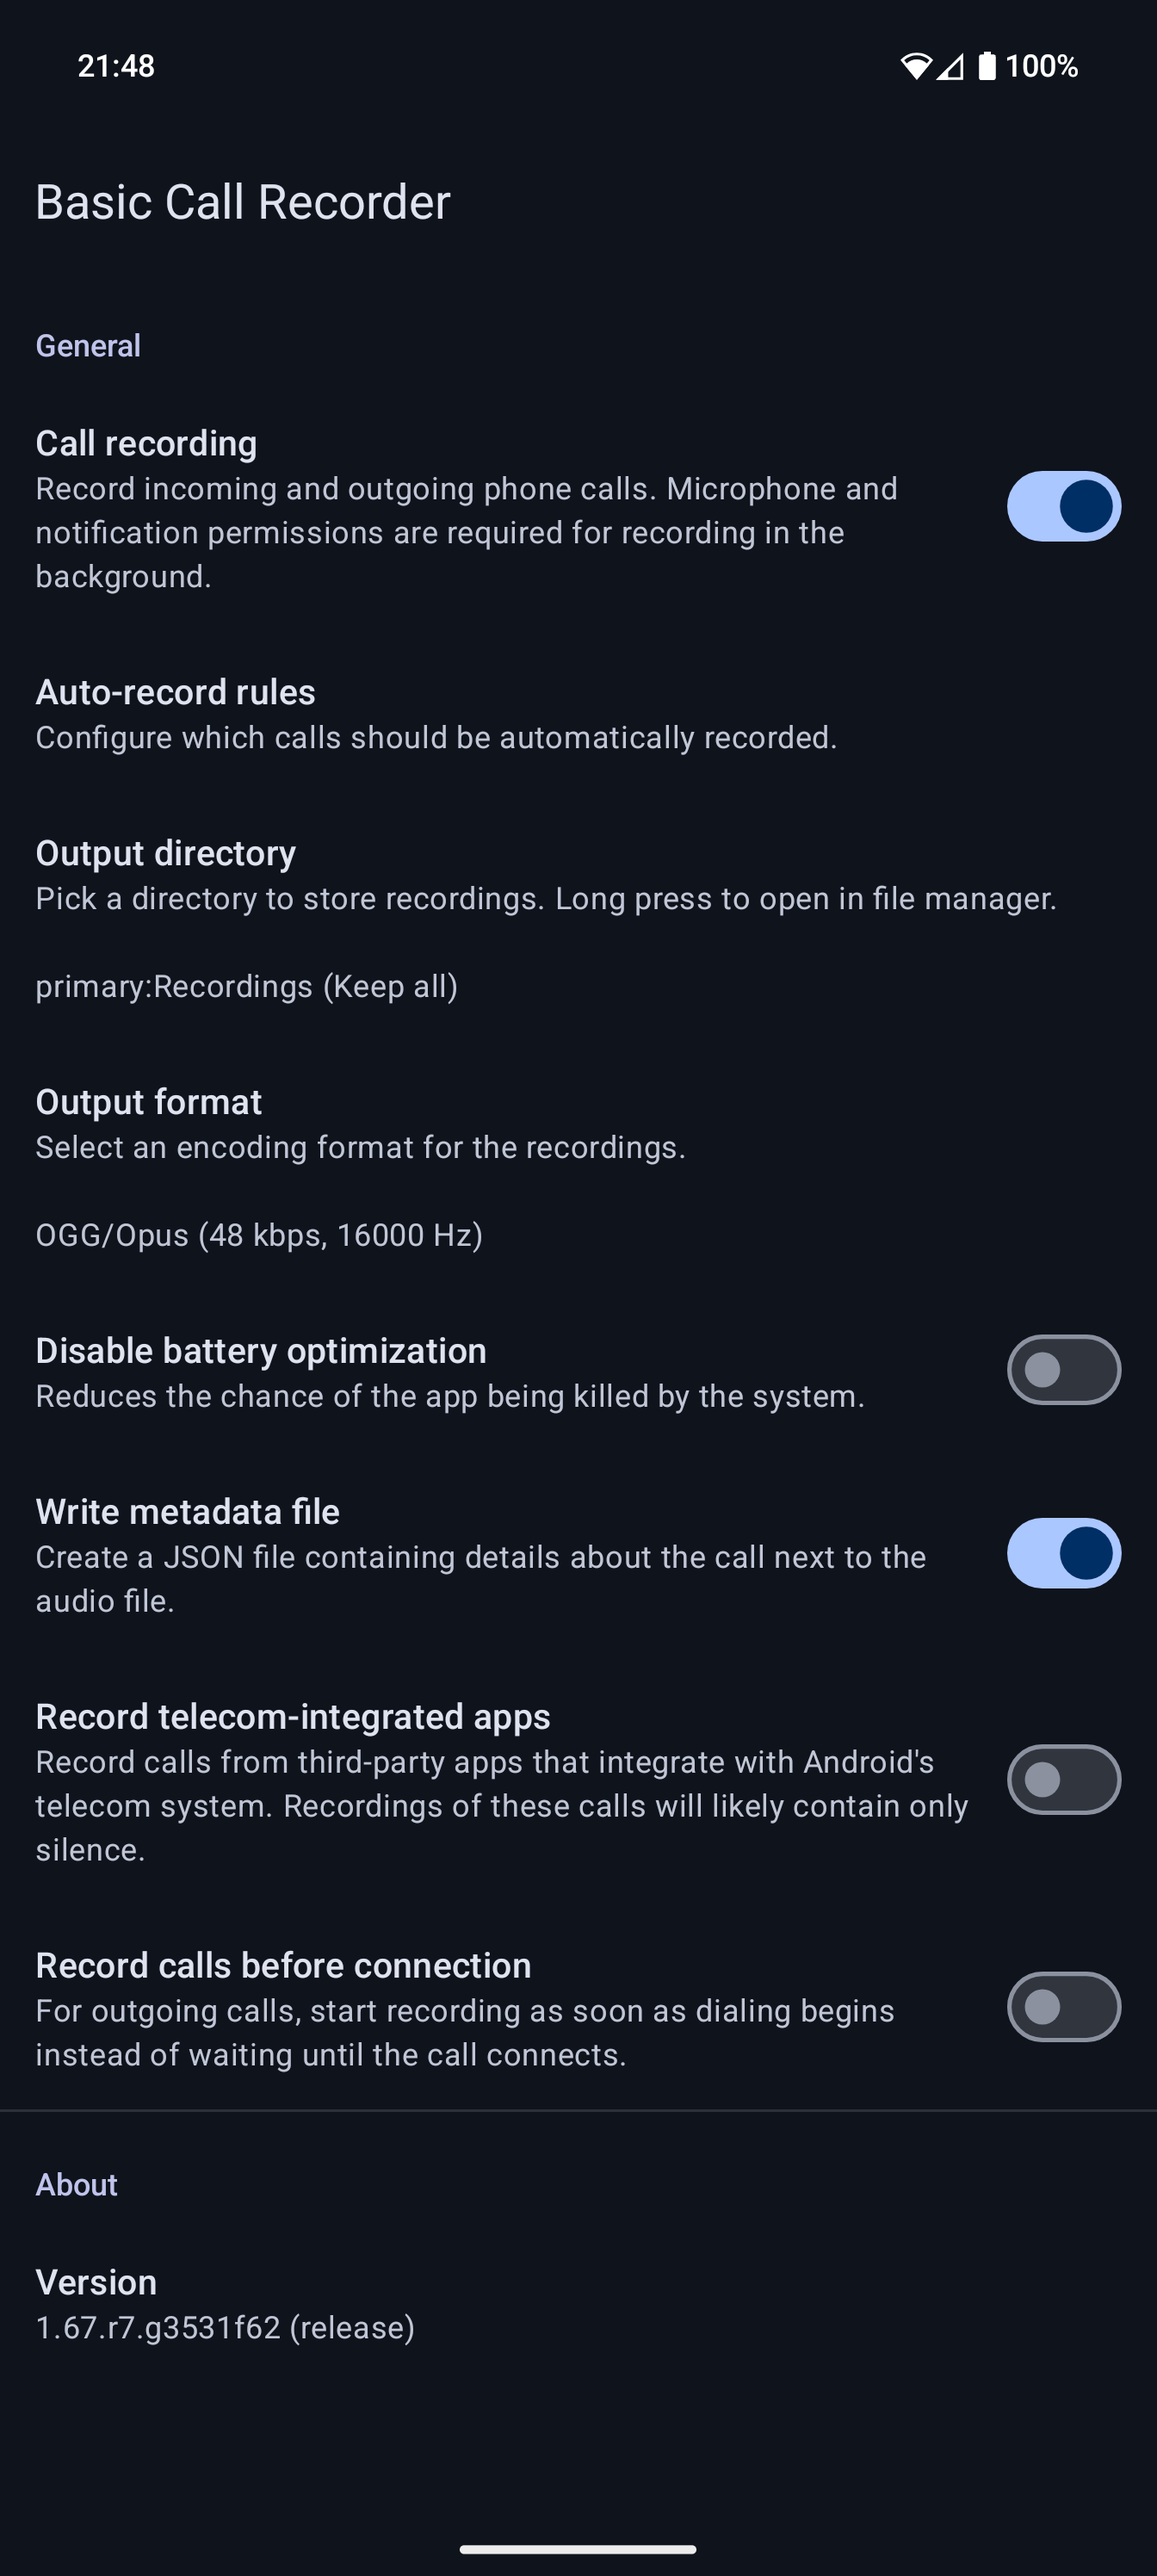
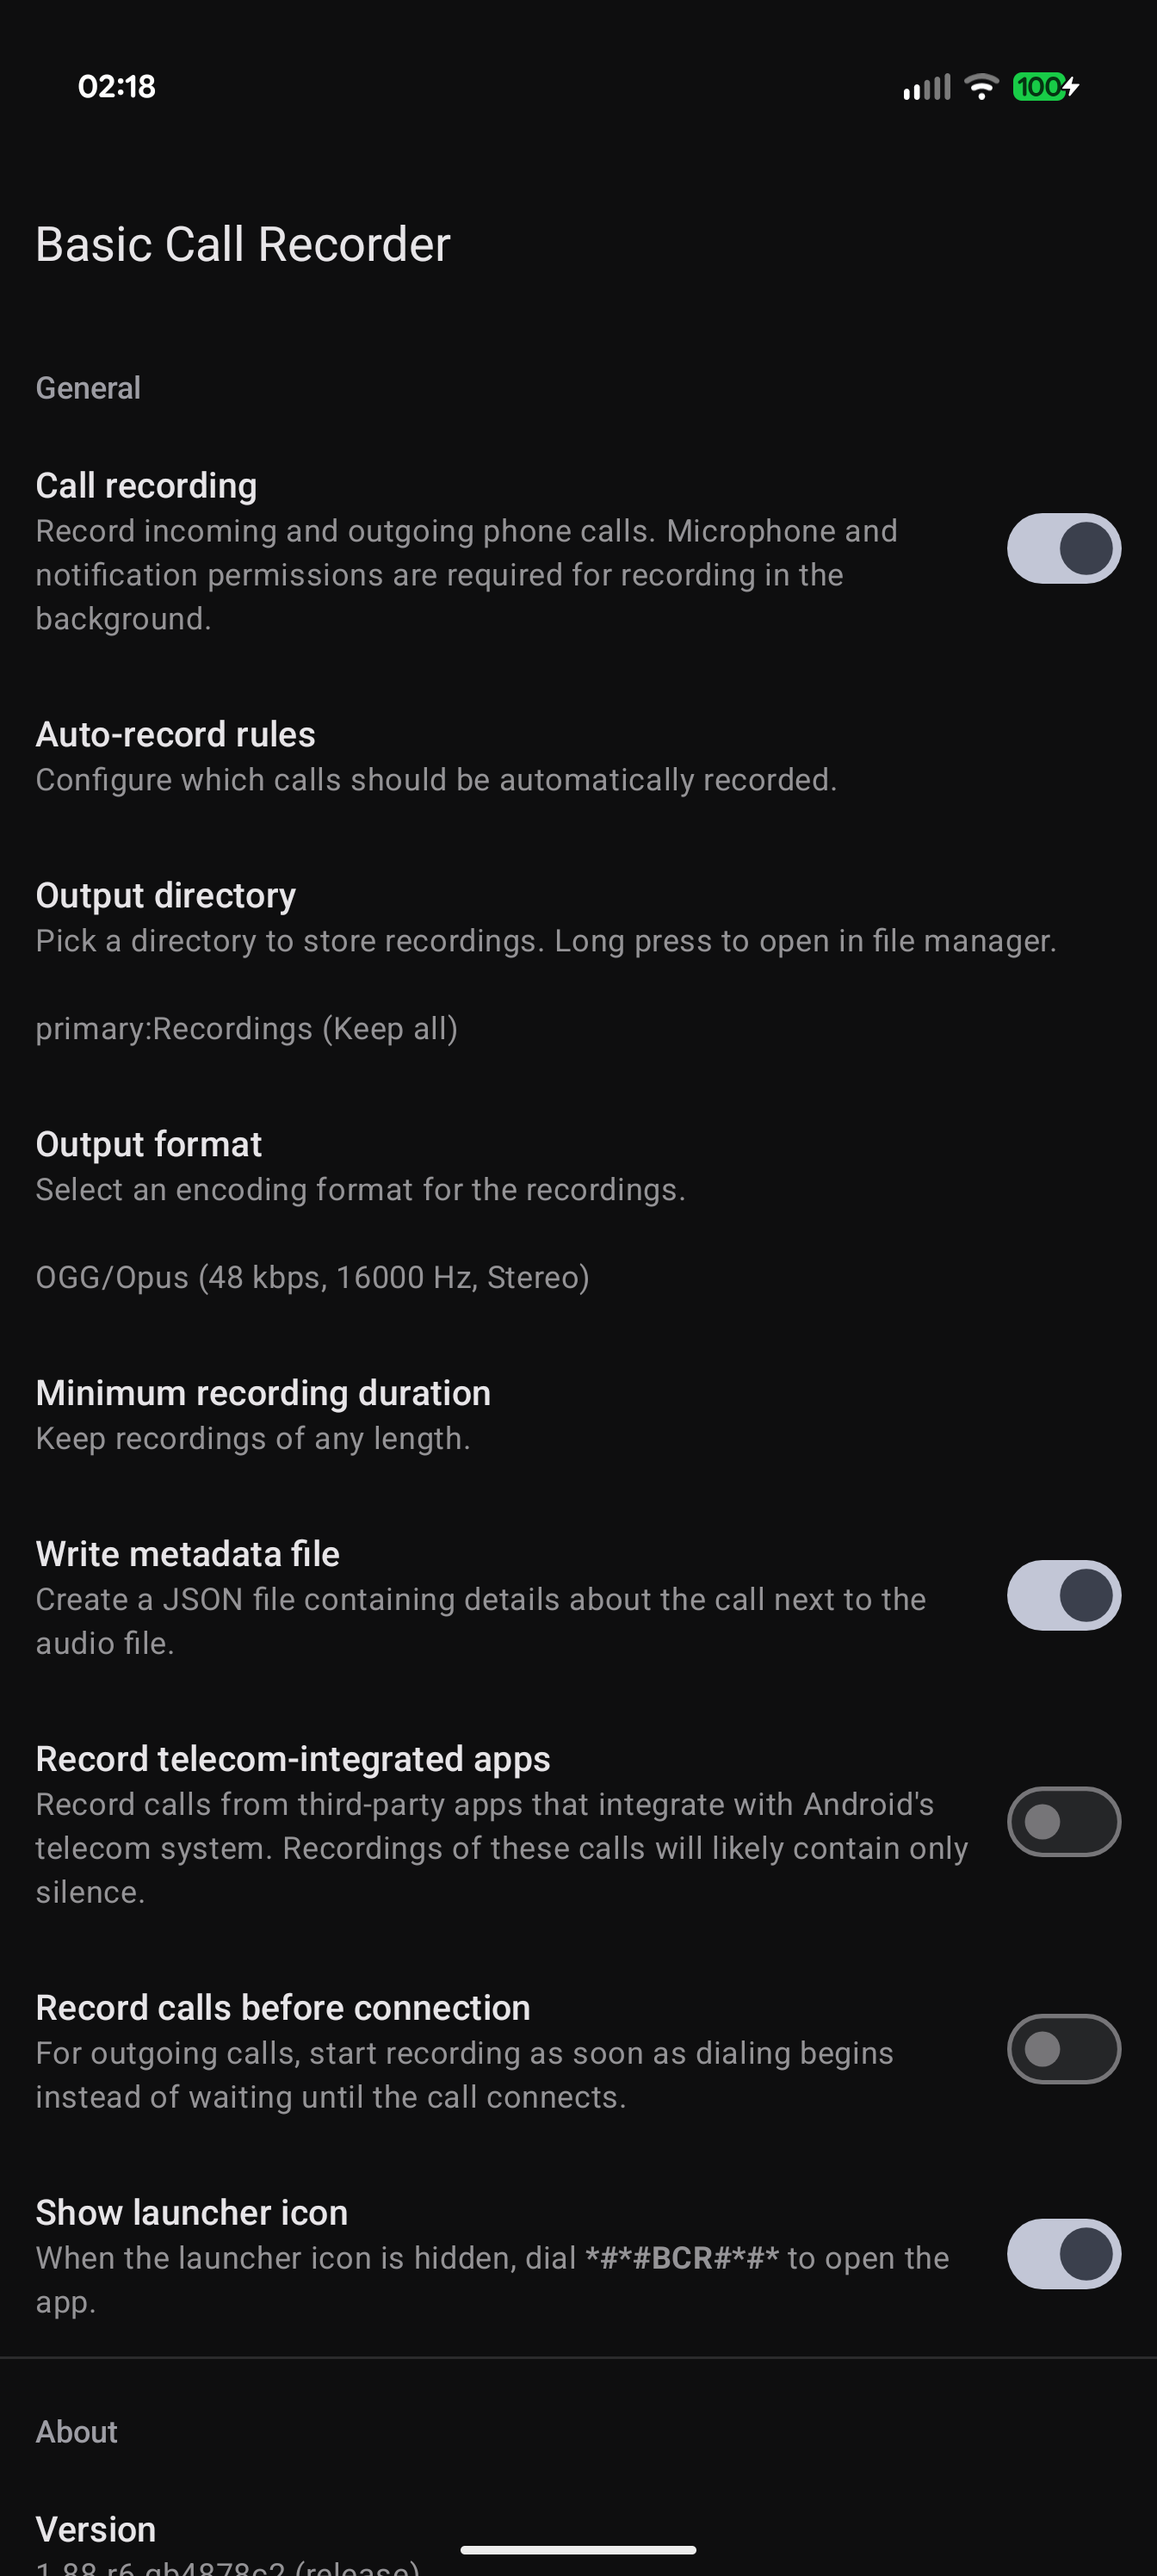
Version 2.0

diff --git a/CHANGELOG.md b/CHANGELOG.md
@@ -7,7 +7,7 @@
     to update the actual links at the bottom of the file.
 -->
 
-### Unreleased
+### Version 2.0
 
 * Add support for stereo recording ([Issue #124], [Issue #127], [Issue #389], [Issue #405], [Issue #409], [Issue #410], [Issue #500], [Issue #566], [Issue #667], [Issue #673], [PR #772 @chenxiaolong])
   * **NOTE**: This only works if the hardware supports it. Currently, only newer Pixel devices are known to support it.
